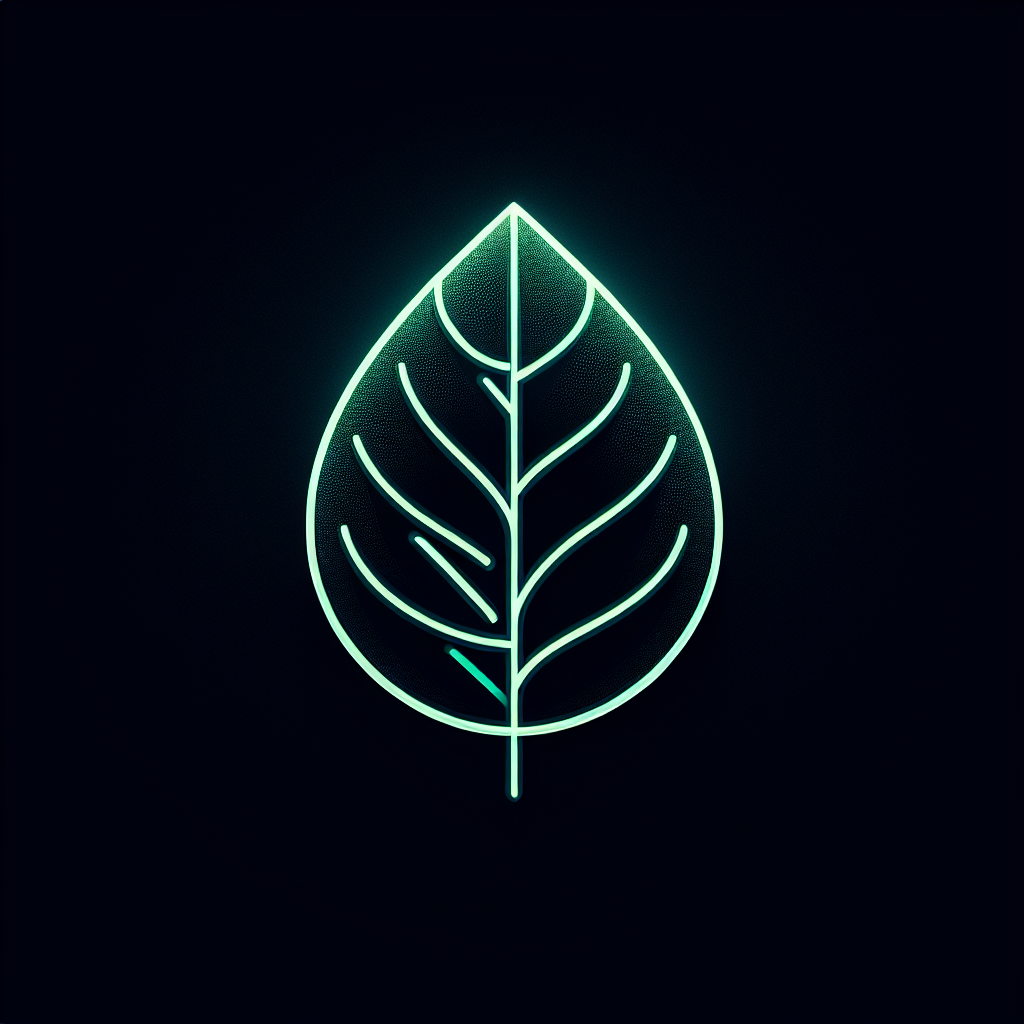
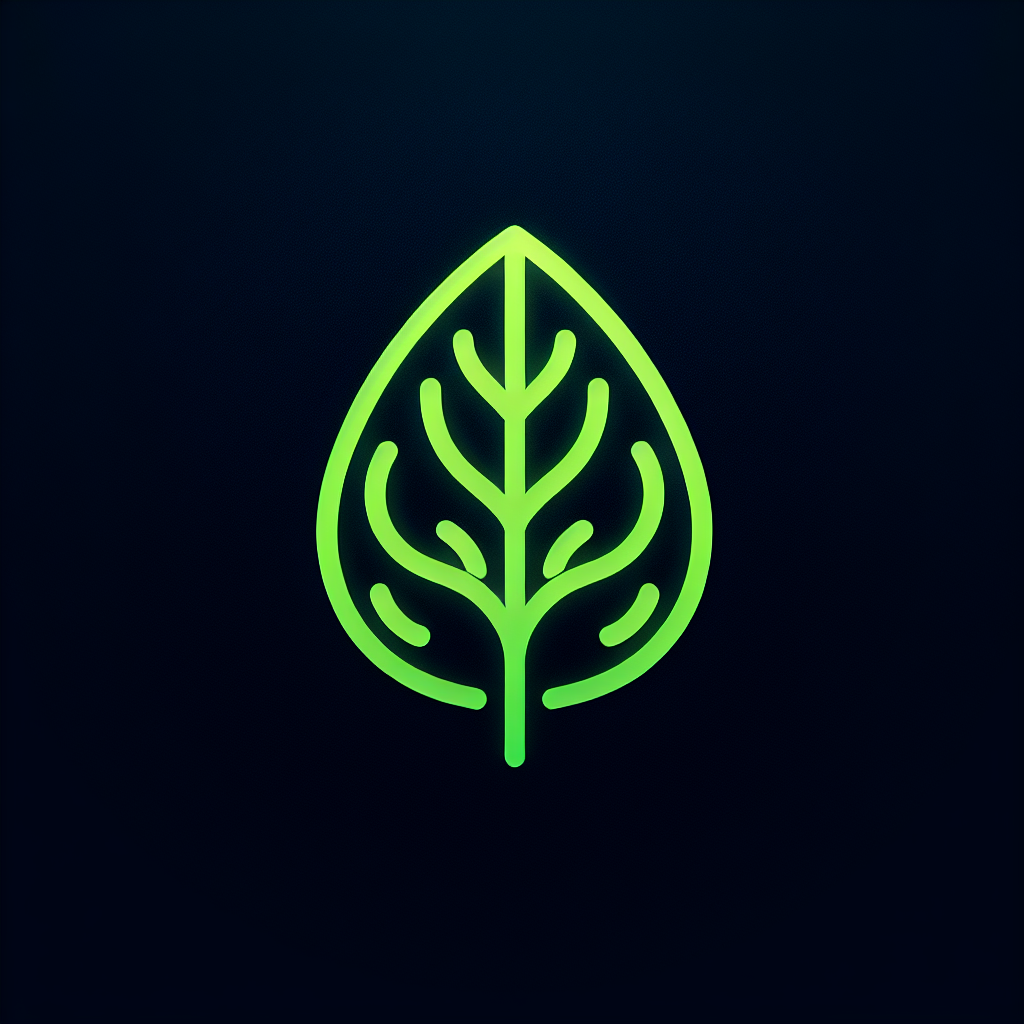
Switch to a real database for storing and managing plant information
Replaces in-memory storage with a Neon database and Drizzle ORM for persistent plant and user data.

Replit-Commit-Author: Agent
Replit-Commit-Session-Id: b3a40812-5b2f-4a2b-bc37-7c2853602d09
Replit-Commit-Screenshot-Url: https://storage.googleapis.com/screenshot-production-us-central1/79655f12-2b7b-42dd-8f4f-82e1c0fbe851/26b28ee4-d7aa-466b-9a9c-8121f4395d17.jpg

Changed region(s): [[0.2812, 0.1875, 0.7188, 0.7812], [0.3438, 0.0, 0.6875, 0.1562]]

diff --git a/server/storage.ts b/server/storage.ts
@@ -1,5 +1,7 @@
 import { plants, type Plant, type InsertPlant, type UpdatePlant } from "@shared/schema";
 import { users, type User, type InsertUser } from "@shared/schema";
+import { db } from "./db";
+import { eq } from "drizzle-orm";
 
 // Modify the interface with CRUD methods for plants
 export interface IStorage {
@@ -16,137 +18,141 @@ export interface IStorage {
   deletePlant(id: number): Promise<boolean>;
 }
 
-export class MemStorage implements IStorage {
-  private users: Map<number, User>;
-  private plantsData: Map<number, Plant>;
-  private userCurrentId: number;
-  private plantCurrentId: number;
-
-  constructor() {
-    this.users = new Map();
-    this.plantsData = new Map();
-    this.userCurrentId = 1;
-    this.plantCurrentId = 1;
-    
-    // Add some initial plant data
-    this.seedInitialPlantData();
-  }
-
+export class DatabaseStorage implements IStorage {
   // User methods
   async getUser(id: number): Promise<User | undefined> {
-    return this.users.get(id);
+    const [user] = await db.select().from(users).where(eq(users.id, id));
+    return user || undefined;
   }
 
   async getUserByUsername(username: string): Promise<User | undefined> {
-    return Array.from(this.users.values()).find(
-      (user) => user.username === username,
-    );
+    const [user] = await db.select().from(users).where(eq(users.username, username));
+    return user || undefined;
   }
 
   async createUser(insertUser: InsertUser): Promise<User> {
-    const id = this.userCurrentId++;
-    const user: User = { ...insertUser, id };
-    this.users.set(id, user);
+    const [user] = await db
+      .insert(users)
+      .values(insertUser)
+      .returning();
     return user;
   }
 
   // Plant methods
   async getAllPlants(): Promise<Plant[]> {
-    return Array.from(this.plantsData.values());
+    return await db.select().from(plants);
   }
 
   async getPlant(id: number): Promise<Plant | undefined> {
-    return this.plantsData.get(id);
+    const [plant] = await db.select().from(plants).where(eq(plants.id, id));
+    return plant || undefined;
   }
 
   async createPlant(insertPlant: InsertPlant): Promise<Plant> {
-    const id = this.plantCurrentId++;
     const now = new Date();
-    
-    const plant: Plant = { 
-      ...insertPlant, 
-      id,
-      createdAt: now,
-      updatedAt: now
-    };
-    
-    this.plantsData.set(id, plant);
+    const [plant] = await db
+      .insert(plants)
+      .values({
+        ...insertPlant,
+        createdAt: now,
+        updatedAt: now
+      })
+      .returning();
     return plant;
   }
 
   async updatePlant(updatePlant: UpdatePlant): Promise<Plant | undefined> {
-    const { id } = updatePlant;
-    const existingPlant = this.plantsData.get(id);
+    const { id, ...data } = updatePlant;
+    if (!id) return undefined;
     
-    if (!existingPlant) {
-      return undefined;
-    }
+    // Drizzle requires the condition to compare numeric ID in a specific way
+    const result = await db
+      .update(plants)
+      .set({
+        ...data,
+        updatedAt: new Date()
+      })
+      .where(eq(plants.id, id))
+      .returning();
     
-    const updatedPlant: Plant = {
-      ...existingPlant,
-      ...updatePlant,
-      updatedAt: new Date()
-    };
-    
-    this.plantsData.set(id, updatedPlant);
-    return updatedPlant;
+    return result[0] || undefined;
   }
 
   async deletePlant(id: number): Promise<boolean> {
-    if (!this.plantsData.has(id)) {
-      return false;
-    }
+    const result = await db
+      .delete(plants)
+      .where(eq(plants.id, id))
+      .returning({ id: plants.id });
     
-    return this.plantsData.delete(id);
+    return result.length > 0;
   }
 
-  // Seed some initial plant data for demonstration
-  private seedInitialPlantData() {
-    const initialPlants: InsertPlant[] = [
-      {
-        name: "Silver Maple",
-        scientificName: "Acer saccharinum",
-        plantingYear: 2022,
-        quantity: 85
-      },
-      {
-        name: "Japanese Cherry",
-        scientificName: "Prunus serrulata",
-        plantingYear: 2023,
-        quantity: 32
-      },
-      {
-        name: "Blue Spruce",
-        scientificName: "Picea pungens",
-        plantingYear: 2022,
-        quantity: 8
-      },
-      {
-        name: "American Beech",
-        scientificName: "Fagus grandifolia",
-        plantingYear: 2021,
-        quantity: 45
-      },
-      {
-        name: "Red Oak",
-        scientificName: "Quercus rubra",
-        plantingYear: 2021,
-        quantity: 62
-      }
-    ];
+  // Function to seed initial plant data if needed
+  async seedInitialPlantDataIfNeeded() {
+    try {
+      const allPlants = await this.getAllPlants();
+      if (allPlants.length === 0) {
+        const initialPlants: InsertPlant[] = [
+          {
+            name: "Silver Maple",
+            scientificName: "Acer saccharinum",
+            plantingYear: 2022,
+            quantity: 85
+          },
+          {
+            name: "Japanese Cherry",
+            scientificName: "Prunus serrulata",
+            plantingYear: 2023,
+            quantity: 32
+          },
+          {
+            name: "Blue Spruce",
+            scientificName: "Picea pungens",
+            plantingYear: 2022,
+            quantity: 8
+          },
+          {
+            name: "American Beech",
+            scientificName: "Fagus grandifolia",
+            plantingYear: 2021,
+            quantity: 45
+          },
+          {
+            name: "Red Oak",
+            scientificName: "Quercus rubra",
+            plantingYear: 2021,
+            quantity: 62
+          }
+        ];
 
-    initialPlants.forEach(plant => {
-      const id = this.plantCurrentId++;
-      const now = new Date();
-      
-      this.plantsData.set(id, {
-        ...plant,
-        id,
-        createdAt: now,
-        updatedAt: now
-      });
-    });
+        const now = new Date();
+        for (const plant of initialPlants) {
+          await db.insert(plants).values({
+            ...plant,
+            createdAt: now,
+            updatedAt: now
+          });
+        }
+        console.log("Initial plant data seeded successfully");
+      }
+    } catch (error) {
+      console.error("Error seeding plant data:", error);
+      throw error;
+    }
   }
 }
 
-export const storage = new MemStorage();
+// Create a singleton instance of the storage
+const storage = new DatabaseStorage();
+
+// Seed initial data when the server starts
+(async () => {
+  try {
+    await storage.seedInitialPlantDataIfNeeded();
+    console.log("Database initialized successfully");
+  } catch (error) {
+    console.error("Error initializing database:", error);
+  }
+})();
+
+export { storage };

diff --git a/server/db.ts b/server/db.ts
@@ -1,0 +1,15 @@
+import { Pool, neonConfig } from '@neondatabase/serverless';
+import { drizzle } from 'drizzle-orm/neon-serverless';
+import ws from "ws";
+import * as schema from "@shared/schema";
+
+neonConfig.webSocketConstructor = ws;
+
+if (!process.env.DATABASE_URL) {
+  throw new Error(
+    "DATABASE_URL must be set. Did you forget to provision a database?",
+  );
+}
+
+export const pool = new Pool({ connectionString: process.env.DATABASE_URL });
+export const db = drizzle({ client: pool, schema });